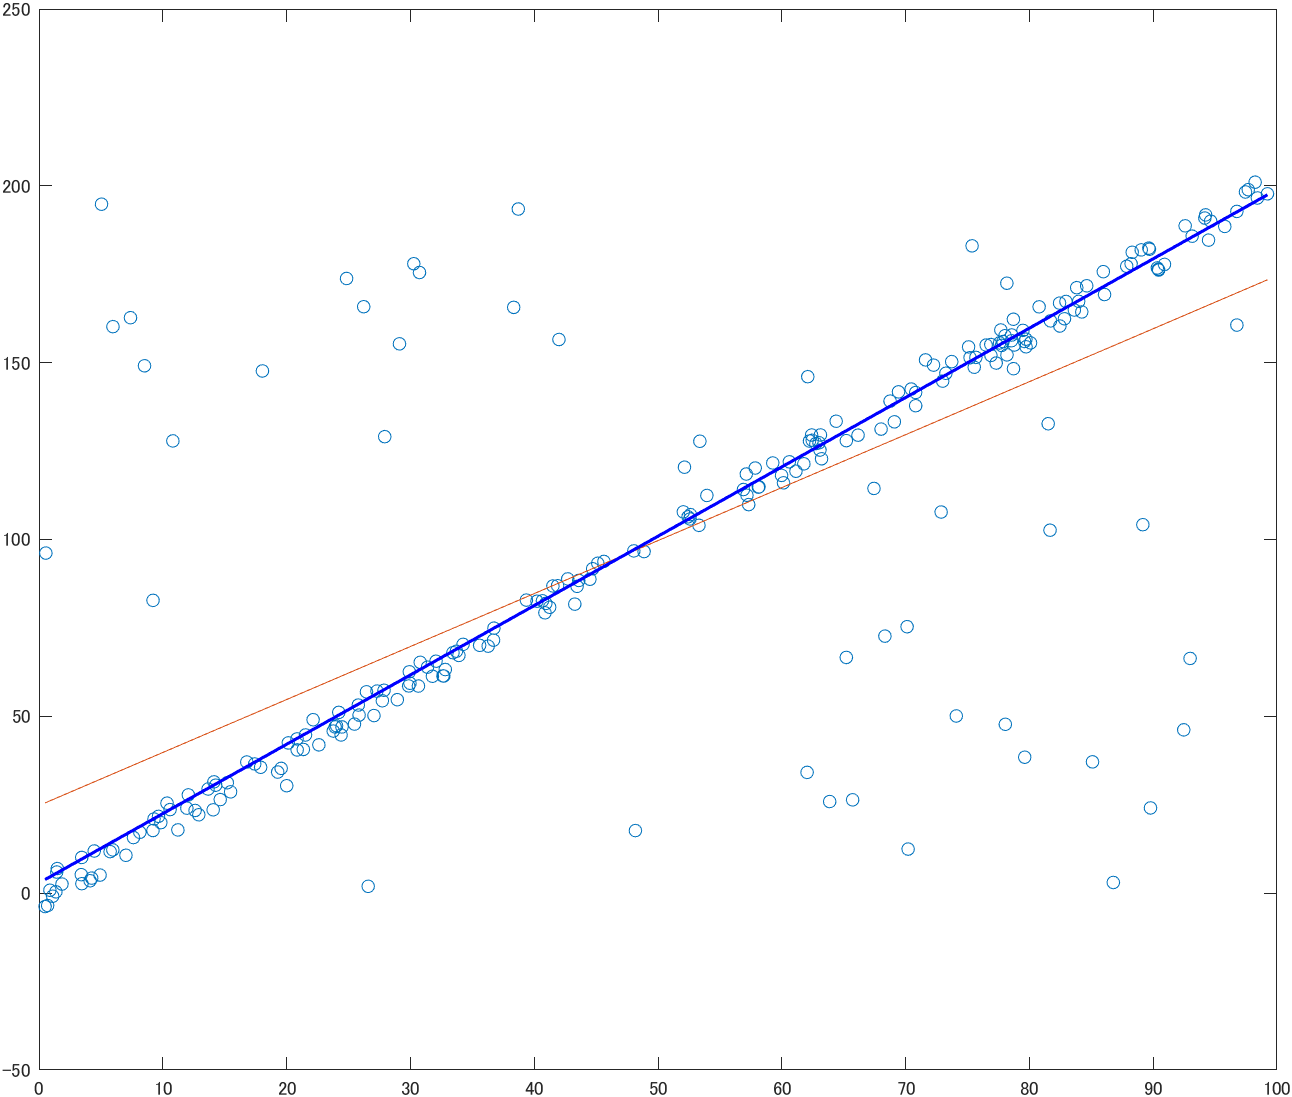
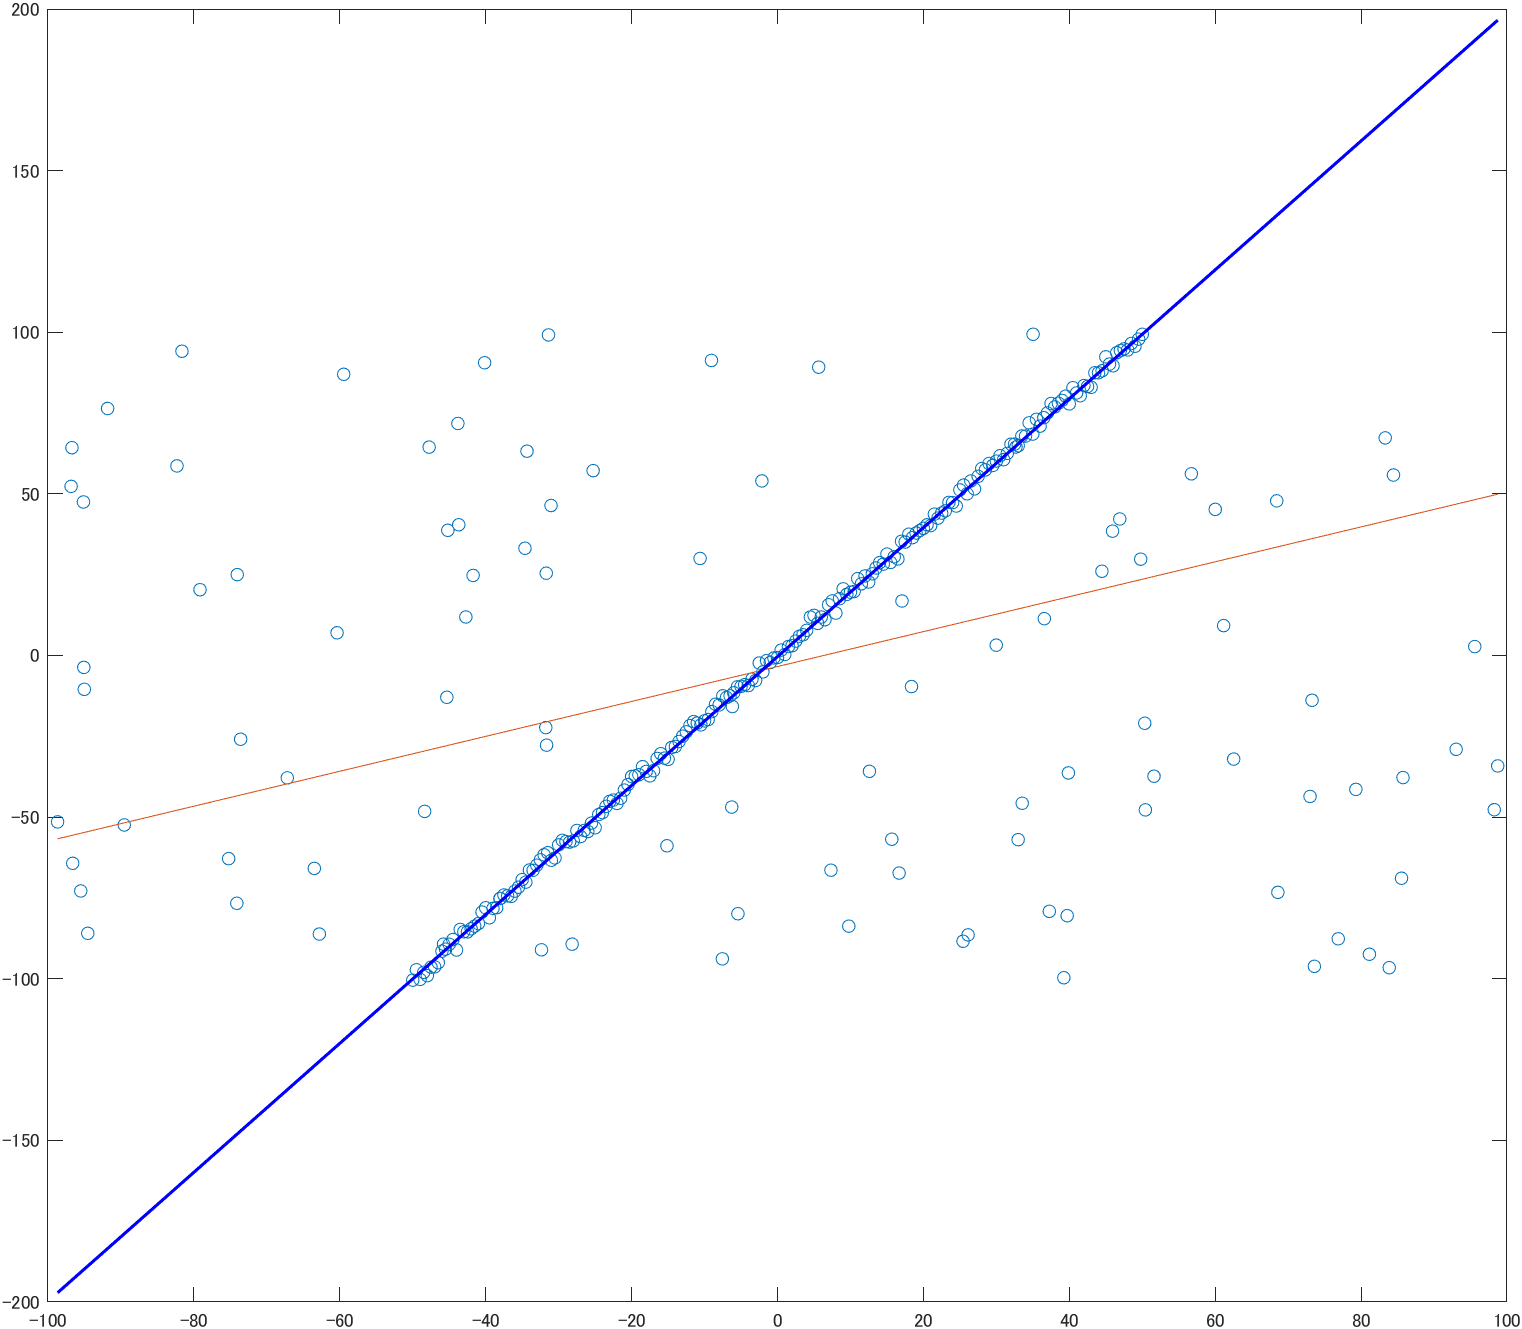
update with mlesac

diff --git a/mlesac.m b/mlesac.m
@@ -1,0 +1,53 @@
+function bestModel = mlesac(data, fitFun, distFun, sampleSize, maxDistance)
+    threshold = maxDistance;
+    numPts    = size(data, 1);
+    i  = int32(1);
+    maxTrials = int32(1000);
+    bestDis   = threshold * numPts;
+    confidence = 99;
+
+    while i <= maxTrials
+        indices = randperm(numPts, sampleSize);
+        samplePoints = data(indices, :, :);
+        param = fitFun(samplePoints);
+        
+        [model, dis, Dis] = evaluateModel(distFun, param, data, threshold);
+
+        if Dis < bestDis
+            bestDis = Dis;
+            bestModel = model;
+            inlierNum = sum(dis < threshold);
+            num = computeLoopNumber(sampleSize, confidence, numPts, inlierNum);
+            maxTrials = min(maxTrials, num);
+        end
+        i = i + 1;
+    end
+end
+
+function [modelOut, distances, sumDistances] = evaluateModel(evalFunc, modelIn, data, threshold)
+    dis = evalFunc(modelIn, data);
+    dis(dis > threshold) = threshold;
+    accDis = sum(dis);
+    if iscell(modelIn)
+        [sumDistances, minIdx] = min(accDis);
+        distances = dis(:, minIdx);
+        modelOut = modelIn{minIdx(1)};
+    else
+        distances = dis;
+        modelOut = modelIn;
+        sumDistances = accDis;
+    end
+end
+
+function N = computeLoopNumber(sampleSize, confidence, pointNum, inlierNum)
+    inlierProbability = (inlierNum/pointNum)^sampleSize;
+    
+    if inlierProbability < eps(class(inlierNum))
+        N = intmax('int32');
+    else
+        conf = 0.01 * confidence;
+        num  = log10(1 - conf);
+        den  = log10(1 - inlierProbability);
+        N    = int32(ceil(num/den));
+    end 
+end

diff --git a/test.m b/test.m
@@ -1,20 +1,23 @@
-for i = 1:200
-    x(i) = rand()*100;
-    b = (rand()-0.5)*10;
-    y(i) = 2*x(i) + b;
+%% Init data
+x = -50:0.5:50;
+y = zeros(1, length(x));
+for i = 1:length(x)
+    x_tmp = x(i) + 2*(rand() - 0.5);
+    y(i) = 2*x_tmp + 3*(rand() - 0.5);
 end
 
-for i = 201:250
-    x(i) = rand()*100;
-    y(i) = rand()*200;
+for i = 1:100
+    x(end+1) = (rand() - 0.5)*200;
+    y(end+1) = (rand() - 0.5)*200;
 end
 
+%% test
 p = polyfit(x,y,1);
 y_1 = polyval(p,x);
 
 fitLineFcn = @(points) polyfit(points(:,1),points(:,2),1);
 evalLineFcn = @(model, points) sum((points(:, 2) - polyval(model, points(:,1))).^2,2);
-p = RANSAC([x', y'], fitLineFcn, evalLineFcn, 2, 20);
+p = mlesac([x', y'], fitLineFcn, evalLineFcn, 2, 20);
 y_2 = polyval(p,x);
 
 figure(1);
@@ -22,4 +25,33 @@ plot(x, y, 'o');
 hold on;
 plot(x, y_1);
 plot(x, y_2, 'LineWidth', 1.5, 'Color', 'b');
+hold off;
+
+%% Init data
+x = -50:0.5:50;
+y = zeros(1, length(x));
+for i = 1:length(x)
+    x_tmp = x(i) + 2*(rand() - 0.5);
+    y(i) = x_tmp*x_tmp + 2*x_tmp + 3*(rand() - 0.5);
+end
+
+for i = 1:100
+    x(end+1) = (rand()-0.5)*100;
+    y(end+1) = (rand())*2500;
+end
+
+%% test
+p = polyfit(x,y, 2);
+y_1 = polyval(p, [-50:50]);
+
+fitLineFcn = @(points) polyfit(points(:,1),points(:,2), 2);
+evalLineFcn = @(model, points) sum((points(:, 2) - polyval(model, points(:,1))).^2,2);
+p = mlesac([x', y'], fitLineFcn, evalLineFcn, 2, 20);
+y_2 = polyval(p, [-50:50]);
+
+figure(2);
+plot(x, y, 'o');
+hold on;
+plot([-50:50], y_1);
+plot([-50:50], y_2, 'LineWidth', 1.5, 'Color', 'b');
 hold off;

diff --git a/RANSAC.m b/RANSAC.m
@@ -3,13 +3,13 @@ function [model] = ransac(data, fitFun, distFun, sampleSize, maxDistance)
     y = data(:, 2);
 
     num_y = length(y);
-    threshP = num_y * 0.65;  % 65% of samples to fit
+    threshP = num_y * 0.8;  % 65% of samples to fit
 
     model = [];
     error = [];
     i = 0;
     while i < 1000
-        sample.idx = randsample(num_y, sampleSize);
+        sample.idx = randperm(num_y, sampleSize);
         sample.idx = sort(sample.idx);
         
         data_tmp= [x(sample.idx), y(sample.idx)];

diff --git a/README.md b/README.md
@@ -3,31 +3,34 @@ Fit model to noisy data
 
 # Syntax
 ```matlab
-[model] = ransac(data,fitFcn,distFcn,sampleSize,maxDistance)
+[model] = mlesac(data,fitFcn,distFcn,sampleSize,maxDistance)
 ```
 
 # Description
-```[model] = ransac(data,fitFcn,distFcn,sampleSize,maxDistance)``` fits a model to noisy data using the random sample consensus (RANSAC) algorithm.
+``` [model] = mlesac(data,fitFcn,distFcn,sampleSize,maxDistance) ``` fits a model to noisy data using the random sample consensus (RANSAC) algorithm.
 
 # Examples
 ```matlab
-for i = 1:200
-    x(i) = rand()*100;
-    b = (rand()-0.5)*10;
-    y(i) = 2*x(i) + b;
+%% Init data
+x = -50:0.5:50;
+y = zeros(1, length(x));
+for i = 1:length(x)
+    x_tmp = x(i) + 2*(rand() - 0.5);
+    y(i) = 2*x_tmp + 3*(rand() - 0.5);
 end
 
-for i = 201:250
-    x(i) = rand()*100;
-    y(i) = rand()*200;
+for i = 1:100
+    x(end+1) = (rand() - 0.5)*200;
+    y(end+1) = (rand() - 0.5)*200;
 end
 
+%% test
 p = polyfit(x,y,1);
 y_1 = polyval(p,x);
 
 fitLineFcn = @(points) polyfit(points(:,1),points(:,2),1);
 evalLineFcn = @(model, points) sum((points(:, 2) - polyval(model, points(:,1))).^2,2);
-p = RANSAC([x', y'], fitLineFcn, evalLineFcn, 2, 20);
+p = mlesac([x', y'], fitLineFcn, evalLineFcn, 2, 20);
 y_2 = polyval(p,x);
 
 figure(1);
@@ -38,6 +41,38 @@ plot(x, y_2, 'LineWidth', 1.5, 'Color', 'b');
 hold off;
 ```
 <img src="image/result.png" width="800" />
+
+```matlab
+%% Init data
+x = -50:0.5:50;
+y = zeros(1, length(x));
+for i = 1:length(x)
+    x_tmp = x(i) + 2*(rand() - 0.5);
+    y(i) = x_tmp*x_tmp + 2*x_tmp + 3*(rand() - 0.5);
+end
+
+for i = 1:100
+    x(end+1) = (rand()-0.5)*100;
+    y(end+1) = (rand())*2500;
+end
+
+%% test
+p = polyfit(x,y, 2);
+y_1 = polyval(p, [-50:50]);
+
+fitLineFcn = @(points) polyfit(points(:,1),points(:,2), 2);
+evalLineFcn = @(model, points) sum((points(:, 2) - polyval(model, points(:,1))).^2,2);
+p = mlesac([x', y'], fitLineFcn, evalLineFcn, 2, 20);
+y_2 = polyval(p, [-50:50]);
+
+figure(2);
+plot(x, y, 'o');
+hold on;
+plot([-50:50], y_1);
+plot([-50:50], y_2, 'LineWidth', 1.5, 'Color', 'b');
+hold off;
+```
+<img src="image/result_2.png" width="800" />
 
 # References
 ・https://www.mathworks.com/help/vision/ref/ransac.html#bvhr3vi-fitFcn
